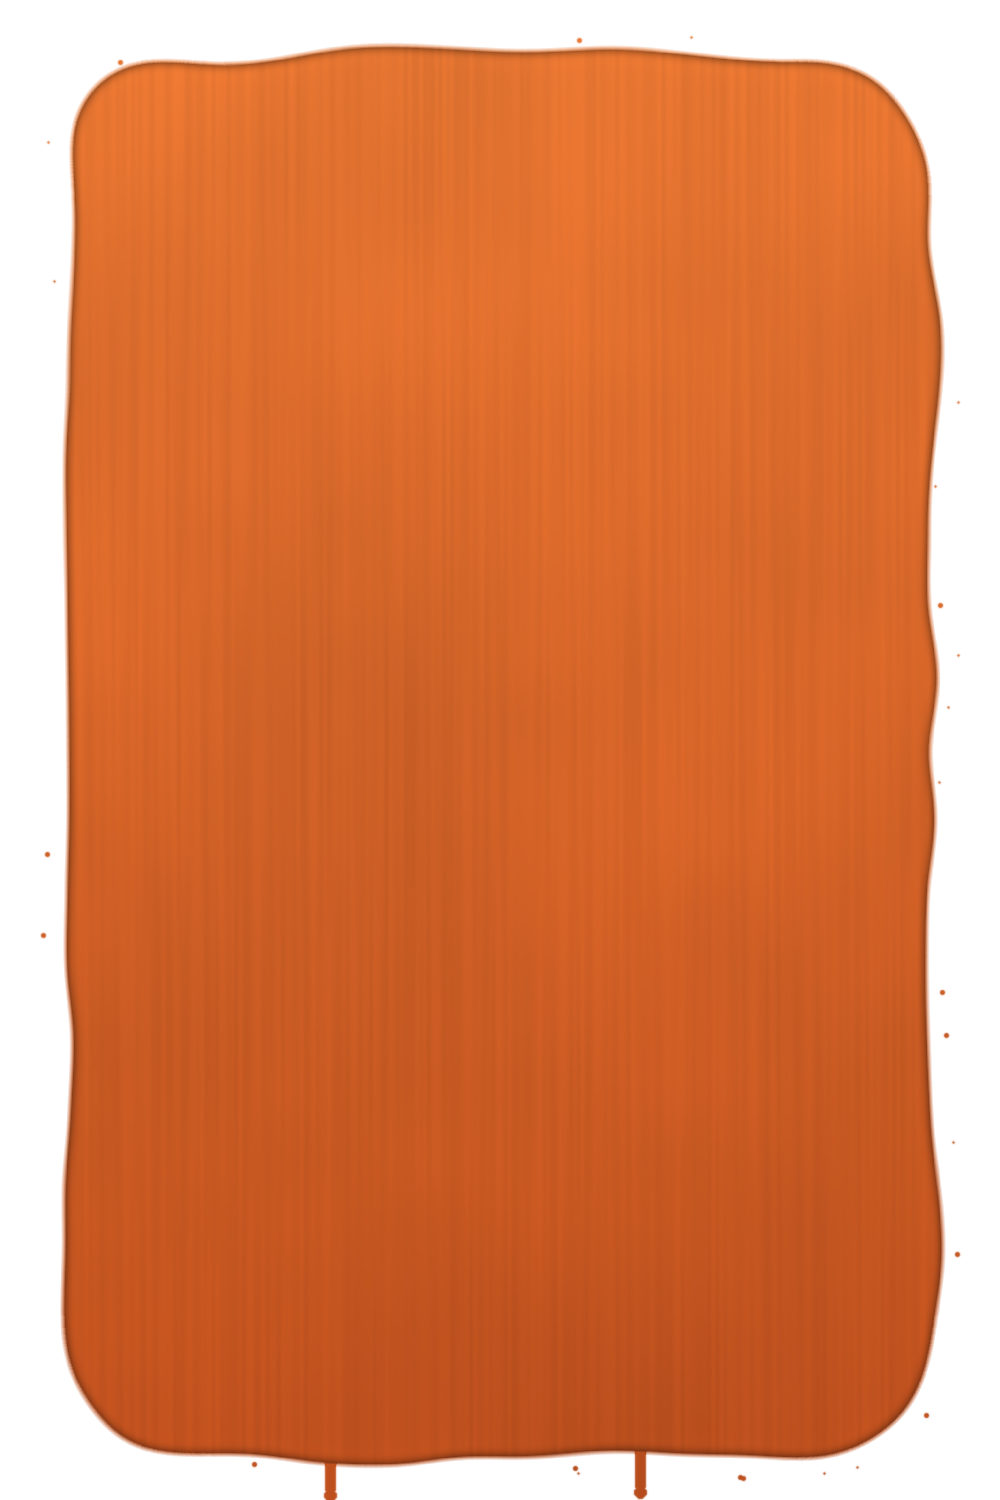
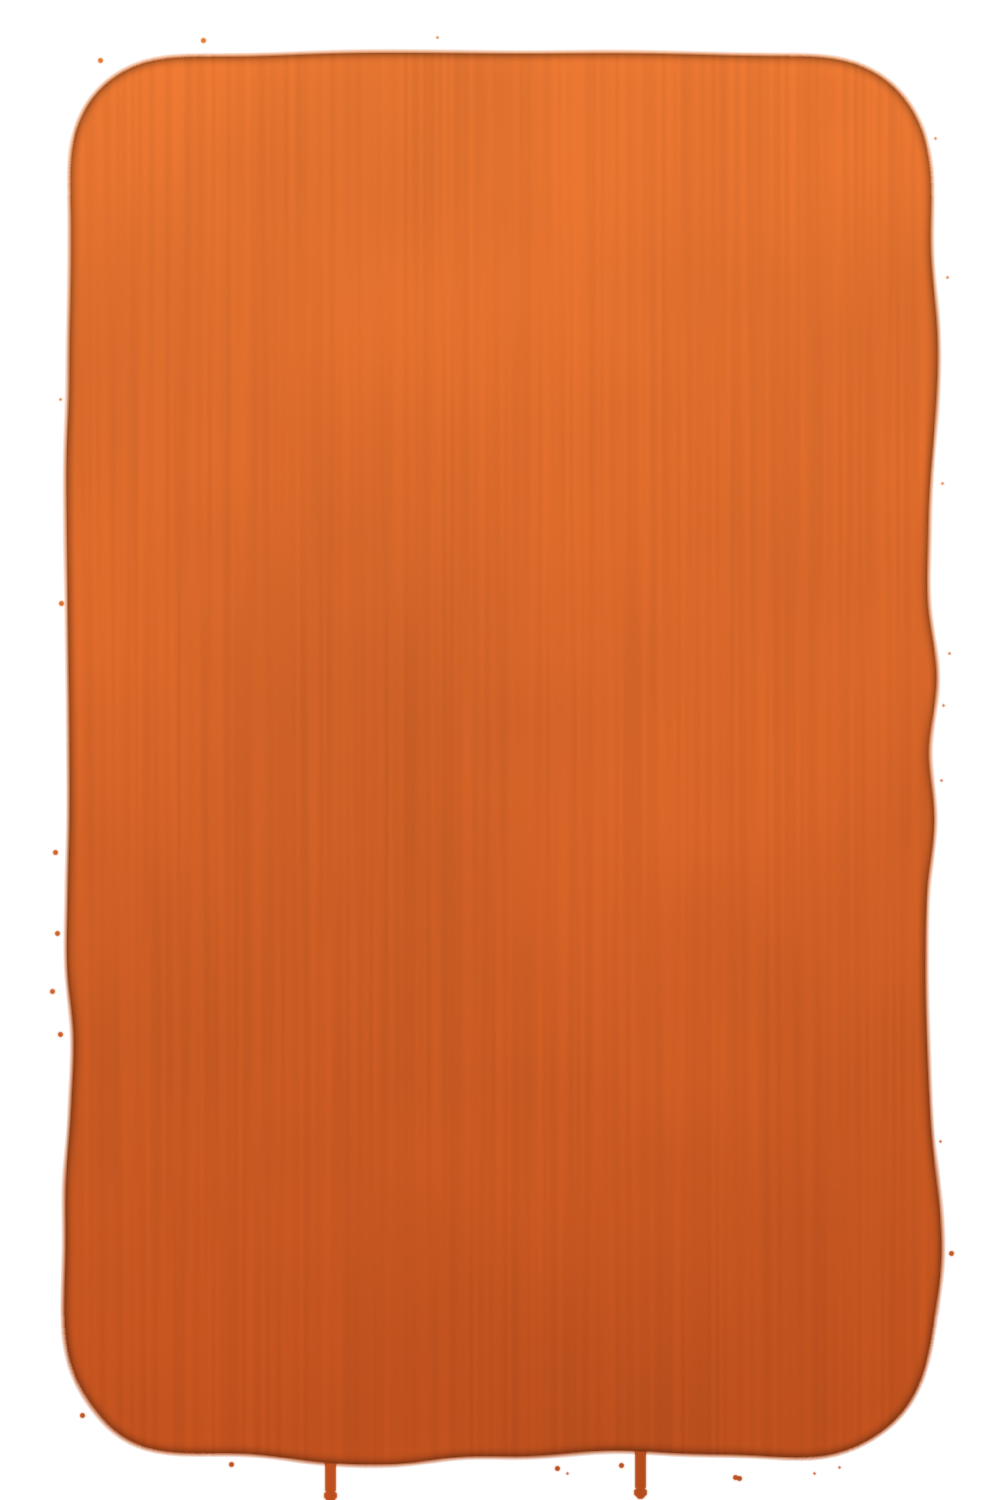
Nacht-Feinschliff I: Raum-Set, Putz-Wand, Walze v2, Eintauch-Morph, Bloom
- Raum komplett neu als reiches Set: geschichtetes Sofa (Kissen, Plaid,
  Füße), große Pflanze, Beistelltisch mit Vase, zwei Bilder, Dielenboden,
  Teppich, Hängeleuchte, Lichtsee unterm Fenster, Lichtschacht,
  Tiefenschärfe-Verlauf, Vignette + Korn
- Wand als echte Putz-Textur (zwei Rauschskalen, Oberlicht, Vignette)
- Walze v2: feinerer zweistufiger Flor, weicherer Schatten in
  Fensterlicht-Richtung (links-unten), -5° Neigung, Neukalibrierung
- Farbfleck: Oberkante als ruhiger Walzen-Bogen (Zungen nur unten/seitlich)
- Morph als "Eintauchen in die Farbe": Fleck zoomt auf 2.2x und blendet
  in die Vorhänge; Licht-Bloom beim Öffnen; Vorhang-Flügel öffnen leicht
  versetzt; sichtbare Vorhang-Reste als Rahmen; dezentes Stoff-Atmen
- Header: Telefonnummer/Nav ohne Umbruch; Mobile-Scrim verstärkt;
  Bilder eager + async decoding; Phase 1 startet früher (0.07)
- Desktop + Mobile Frame-Audits über alle Phasen

Claude-Session: https://claude.ai/code/session_01Q9giuGJDXraqRUpUyrCLa5

diff --git a/app/globals.css b/app/globals.css
@@ -219,12 +219,12 @@ strong { color: var(--text); font-weight: 700; }
 .nav { display: flex; align-items: center; gap: 0.35rem; }
 .nav__links { display: flex; align-items: center; gap: 0.2rem; }
 .nav a.nav__link {
-  font-family: var(--display); font-weight: 500; font-size: 0.92rem;
+  font-family: var(--display); font-weight: 500; font-size: 0.92rem; white-space: nowrap;
   color: var(--text-soft); padding: 0.5rem 0.85rem; border-radius: var(--radius-pill);
   transition: color 0.25s, background 0.25s;
 }
 .nav a.nav__link:hover { color: var(--text); background: rgba(45, 34, 22, 0.06); }
-.nav__phone { display: inline-flex; align-items: center; gap: 0.4rem; font-family: var(--display); font-weight: 600; color: var(--copper-bright); padding: 0.5rem 0.7rem; }
+.nav__phone { display: inline-flex; align-items: center; gap: 0.4rem; font-family: var(--display); font-weight: 600; color: var(--copper-bright); padding: 0.5rem 0.7rem; white-space: nowrap; }
 .nav__toggle {
   display: none; background: rgba(45, 34, 22, 0.06); border: 1px solid var(--line-strong);
   color: var(--text); width: 46px; height: 46px; border-radius: 12px; font-size: 1.2rem; cursor: pointer;
@@ -927,24 +927,17 @@ html:has(.home) footer.footer { display: none; }
   transition: opacity 0.6s ease, transform 2.1s var(--openEase);
 }
 /* linkes Panel liegt oben und laeuft weich in das rechte aus – nahtloser Stoff */
-.curt--l { left: 0; right: auto; z-index: 3; -webkit-mask-image: linear-gradient(90deg, #000 84%, transparent 100%); mask-image: linear-gradient(90deg, #000 84%, transparent 100%); }
+.curt--l { left: 0; right: auto; z-index: 3; -webkit-mask-image: linear-gradient(90deg, #000 96%, transparent 100%); mask-image: linear-gradient(90deg, #000 96%, transparent 100%); }
 .curt--r { left: auto; right: 0; z-index: 2; width: 58%; }
 .herostage[data-p2] .curt {
   opacity: 1; transform: scale(1);
   transition: opacity 1.1s ease 0.15s, transform 1.4s ease 0.1s;
 }
-.herostage[data-p3] .curt--l { transform: translateX(-96%) scale(1); transition: opacity 0.4s ease, transform 2.1s var(--openEase) 0.05s; }
-.herostage[data-p3] .curt--r { transform: translateX(96%) scale(1); transition: opacity 0.4s ease, transform 2.1s var(--openEase) 0.05s; }
+.herostage[data-p3] .curt--l { transform: translateX(-90%) scale(1); transition: opacity 0.4s ease, transform 2.2s var(--openEase) 0.05s; }
+.herostage[data-p3] .curt--r { transform: translateX(90%) scale(1); transition: opacity 0.4s ease, transform 2.2s var(--openEase) 0.18s; }
 
 /* ---------- kahle Wand ---------- */
-.rhero__wall {
-  position: absolute; inset: 0; z-index: 1; opacity: 1;
-  background:
-    radial-gradient(120% 80% at 70% 10%, rgba(255,252,246,0.9), rgba(255,252,246,0) 60%),
-    repeating-linear-gradient(90deg, rgba(45,34,22,0.016) 0 3px, transparent 3px 34px),
-    linear-gradient(180deg, #faf6ee 0%, #eee5d5 100%);
-  transition: opacity 0.5s ease;
-}
+.rhero__wall { position: absolute; inset: 0; z-index: 1; opacity: 1; transition: opacity 0.5s ease; }
 .herostage[data-p2] .rhero__wall { opacity: 0; transition: opacity 0.9s ease 0.5s; }
 
 /* ---------- Farbfleck mit Headline ---------- */
@@ -957,7 +950,9 @@ html:has(.home) footer.footer { display: none; }
   will-change: clip-path, opacity;
 }
 .herostage[data-p1] .patchwrap { clip-path: inset(-2% -6% -3% -6%); }
-.herostage[data-p2] .patchwrap { opacity: 0; transform: translateX(-50%) scale(1.05); transition: opacity 0.8s ease 0.3s, transform 1.2s ease; }
+.herostage[data-p2] .patchwrap { opacity: 0; transform: translateX(-50%) scale(2.2); transition: opacity 0.9s ease 0.25s, transform 1.35s cubic-bezier(0.5, 0.05, 0.3, 1); }
+.patchwrap { transform-origin: 50% 38%; }
+.herostage[data-p2] .patch__text { opacity: 0 !important; transition: opacity 0.25s ease !important; }
 .patch { width: 100%; height: 100%; object-fit: fill; display: block; filter: drop-shadow(0 18px 40px rgba(150,64,20,0.18)); }
 .patch__text {
   position: absolute; inset: 0; display: flex; flex-direction: column;
@@ -981,9 +976,9 @@ html:has(.home) footer.footer { display: none; }
 /* ---------- fotoreale Farbrolle (reitet auf der Farbkante) ---------- */
 .rollwrap {
   position: absolute; z-index: 4; left: 50%;
-  width: calc(var(--patchH) * 0.6667 / 0.6785);
+  width: calc(var(--patchH) * 0.6667 / 0.6845);
   top: calc(var(--patchTop) + 1.2svh);
-  transform: translate(-44.18%, -23.39%);
+  transform: translate(-43.78%, -22.98%);
   transition: top 2.1s var(--paintEase) 0.1s, opacity 0.45s ease;
   will-change: top;
   pointer-events: none;
@@ -994,6 +989,21 @@ html:has(.home) footer.footer { display: none; }
 /* minimales Arbeitswackeln, solange gestrichen wird */
 .herostage[data-p1]:not([data-p2]) .rollimg { animation: rollwob 0.6s ease-in-out infinite alternate; }
 @keyframes rollwob { from { transform: rotate(-0.6deg); } to { transform: rotate(0.6deg); } }
+
+/* dezentes Atmen des Stoffs, solange die Vorhänge geschlossen sind */
+.herostage[data-p2]:not([data-p3]) .curt--l { animation: curtBreatheL 7s ease-in-out 1.4s infinite; }
+.herostage[data-p2]:not([data-p3]) .curt--r { animation: curtBreatheR 8s ease-in-out 1.8s infinite; }
+@keyframes curtBreatheL { 0%,100% { transform: scale(1); } 50% { transform: scale(1.008) translateX(0.15%); } }
+@keyframes curtBreatheR { 0%,100% { transform: scale(1); } 50% { transform: scale(1.009) translateX(-0.15%); } }
+
+/* ---------- Licht-Bloom beim Vorhang-Öffnen ---------- */
+.lightbloom {
+  position: absolute; inset: 0; z-index: 4; pointer-events: none; opacity: 0;
+  background: radial-gradient(62% 78% at 52% 42%, rgba(255,246,216,0.95), rgba(255,246,216,0) 72%);
+  mix-blend-mode: screen;
+}
+.herostage[data-p3] .lightbloom { animation: bloomIn 2.6s ease 0.25s forwards; }
+@keyframes bloomIn { 0% { opacity: 0; } 38% { opacity: 0.85; } 100% { opacity: 0.18; } }
 
 /* ---------- Caption ---------- */
 .rhero__caption {
@@ -1031,8 +1041,11 @@ html:has(.home) footer.footer { display: none; }
 @media (max-width: 720px) {
   .herostage { --patchH: 54svh; --patchTop: 13svh; }
   .rhero__caption { top: 36%; }
+  .herostage::before {
+    background: linear-gradient(180deg, transparent 30%, rgba(50,24,8,0.55) 66%, rgba(50,24,8,0.78) 100%);
+  }
 }
 @media (prefers-reduced-motion: reduce) {
   .heroscroll { height: 100svh; }
-  .patchwrap, .rollwrap, .rhero__wall, .rhero__caption { display: none !important; }
+  .patchwrap, .rollwrap, .rhero__wall, .rhero__caption, .lightbloom { display: none !important; }
 }

diff --git a/components/PaintRollerHero.tsx b/components/PaintRollerHero.tsx
@@ -17,7 +17,7 @@ import { asset } from "@/lib/asset";
  * Runterwischen STARTET den nächsten Abschnitt, rückwärts spult zurück.
  */
 
-const THRESHOLDS = [0.1, 0.42, 0.72];
+const THRESHOLDS = [0.07, 0.42, 0.72];
 const HYST = 0.05;
 
 export default function PaintRollerHero({ children }: { children: ReactNode }) {
@@ -72,7 +72,7 @@ export default function PaintRollerHero({ children }: { children: ReactNode }) {
         <div className="rhero" aria-hidden>
           {/* Ebene 1: weicher, warmer Raum (hinter allem) */}
           {/* eslint-disable-next-line @next/next/no-img-element */}
-          <img className="lay lay-room" src={asset("/images/hero/room.jpg")} alt="" />
+          <img className="lay lay-room" src={asset("/images/hero/room.jpg")} alt="" loading="eager" decoding="async" />
 
           {/* Ebene 2: Vorhänge */}
           {/* eslint-disable-next-line @next/next/no-img-element */}
@@ -80,19 +80,23 @@ export default function PaintRollerHero({ children }: { children: ReactNode }) {
           {/* eslint-disable-next-line @next/next/no-img-element */}
           <img className="lay curt curt--r" src={asset("/images/hero/curtain-r.jpg")} alt="" />
 
-          {/* Ebene 3: kahle Wand */}
-          <div className="rhero__wall" />
+          {/* Ebene 3: kahle Wand (Putz-Textur) */}
+          {/* eslint-disable-next-line @next/next/no-img-element */}
+          <img className="lay rhero__wall" src={asset("/images/hero/wall.jpg")} alt="" />
+
+          {/* Licht-Bloom beim Öffnen der Vorhänge */}
+          <span className="lightbloom" />
 
           {/* Ebene 4: fotoreale Farbrolle – reitet auf der wachsenden Farbkante */}
           <div className="rollwrap">
             {/* eslint-disable-next-line @next/next/no-img-element */}
-            <img className="rollimg" src={asset("/images/hero/roller.png")} alt="" />
+            <img className="rollimg" src={asset("/images/hero/roller.png")} alt="" loading="eager" decoding="async" fetchPriority="high" />
           </div>
 
           {/* Ebene 5: der wachsende Farbfleck mit Headline */}
           <div className="patchwrap">
             {/* eslint-disable-next-line @next/next/no-img-element */}
-            <img className="patch" src={asset("/images/hero/paint-patch.png")} alt="" />
+            <img className="patch" src={asset("/images/hero/paint-patch.png")} alt="" loading="eager" decoding="async" fetchPriority="high" />
             <div className="patch__text">
               <span className="patch__eyebrow">Malermeister Heußer · Berlin</span>
               <h1 className="patch__title">Aus kahlen Wänden<br />wird Ihr Zuhause.</h1>